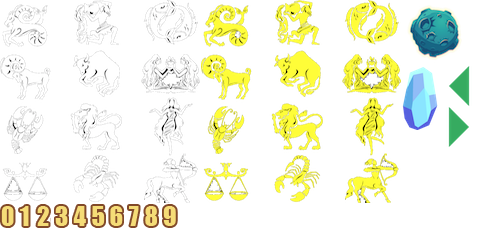
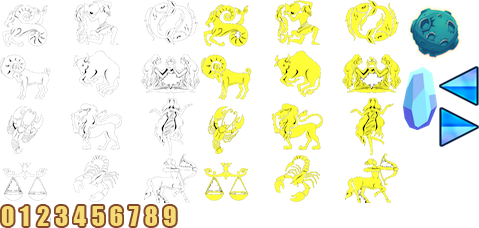
0.4.20 更换操作箭头图片

Changed region(s): [[0.9061, 0.2763, 1.0, 0.4605], [0.9061, 0.4605, 1.0, 0.6447]]

diff --git a/bin/js/ui/layaUI.max.all.js b/bin/js/ui/layaUI.max.all.js
@@ -38,7 +38,7 @@ var ui;
             _super.prototype.createChildren.call(this);
             this.createView(ui.GameViewUI.uiView);
         };
-        GameViewUI.uiView = { "type": "View", "props": { "y": 0, "x": 0, "width": 800, "height": 600 }, "child": [{ "type": "Box", "props": { "y": -2017, "x": 0, "width": 800, "visible": true, "var": "runningView", "height": 2617 }, "child": [{ "type": "Image", "props": { "y": 0, "x": 0, "width": 800, "var": "backgroundView", "skin": "ui/background/BackGround .jpg", "height": 2617 } }, { "type": "Animation", "props": { "y": 2582, "x": 145, "width": 30, "var": "smallBallView", "height": 30 } }, { "type": "Animation", "props": { "y": 2568, "x": 369, "width": 50, "var": "bigBallView", "height": 50 } }] }, { "type": "Box", "props": { "width": 666, "visible": true, "var": "arrowView", "scaleX": 1, "pivotY": 53, "pivotX": 324, "height": 113, "centerY": 193, "centerX": 5 }, "child": [{ "type": "Image", "props": { "x": 574, "width": 100, "visible": true, "skin": "ui/else/right.png", "pivotY": 0, "pivotX": 0, "name": "rightShow", "height": 100, "alpha": 0.3 } }, { "type": "Image", "props": { "width": 100, "visible": true, "skin": "ui/else/left.png", "name": "leftShow", "height": 100, "alpha": 0.3 } }, { "type": "Image", "props": { "y": -180, "x": 480, "width": 240, "visible": true, "skin": "ui/else/right.png", "name": "right", "height": 330, "alpha": 0 } }, { "type": "Image", "props": { "y": -180, "x": -63, "width": 240, "visible": true, "skin": "ui/else/left.png", "name": "left", "height": 330, "alpha": 0 } }] }, { "type": "Box", "props": { "y": 50, "x": 600, "width": 200, "visible": true, "var": "scoreView", "height": 60 }, "child": [{ "type": "Clip", "props": { "y": 7, "x": 126, "width": 30, "skin": "ui/else/clip_number.png", "name": "item3", "height": 40, "clipX": 10 } }, { "type": "Clip", "props": { "y": 7, "x": 82, "width": 30, "skin": "ui/else/clip_number.png", "name": "item2", "height": 40, "clipX": 10 } }, { "type": "Clip", "props": { "y": 7, "x": 37, "width": 30, "skin": "ui/else/clip_number.png", "name": "item1", "index": 0, "height": 40, "clipX": 10 } }, { "type": "Text", "props": { "y": -23, "x": 60, "width": 92, "var": "levelView", "text": "Level 1", "strokeColor": "#16d225", "italic": true, "height": 25, "fontSize": 25, "font": "Impact", "color": "#ff2f08", "bold": false, "alpha": 0.5, "align": "center" } }, { "type": "Image", "props": { "y": 0, "x": -30, "width": 50, "var": "settingButton", "skin": "ui/button/SettingButton.png", "height": 50, "alpha": 0.5 }, "child": [{ "type": "Image", "props": { "y": 140, "x": 0, "width": 50, "visible": false, "var": "pauseButton", "skin": "ui/button/PauseButton.png", "height": 50, "disabled": true } }, { "type": "Image", "props": { "y": 70, "x": 0, "width": 50, "visible": false, "var": "soundButton", "skin": "ui/button/NoSoundButton.png", "height": 50, "disabled": true } }, { "type": "Image", "props": { "y": 210, "x": 0, "width": 50, "visible": false, "var": "endButton", "skin": "ui/button/EndButton.png", "height": 50, "disabled": true } }] }, { "type": "Text", "props": { "y": 48, "x": 35, "strokeColor": "#f4720b", "stroke": 2, "name": "penalty", "fontSize": 50, "font": "ChalkBoard", "color": "#f82e08" } }, { "type": "Text", "props": { "y": 46, "x": 97, "strokeColor": "#08bc83", "stroke": 2, "name": "reward", "fontSize": 50, "font": "ChalkBoard", "color": "#08f824" } }] }, { "type": "Box", "props": { "y": 506, "x": 605, "width": 238, "visible": true, "var": "smallArrowView", "scaleX": 1, "pivotY": 53, "pivotX": 324, "height": 98, "centerY": 202, "centerX": 14 }, "child": [{ "type": "Image", "props": { "y": 0, "x": 181, "width": 70, "visible": true, "skin": "ui/else/right.png", "pivotY": 0, "pivotX": 0, "name": "rightShow", "height": 70, "alpha": 0.3 } }, { "type": "Image", "props": { "y": 0, "x": -20, "width": 70, "visible": true, "skin": "ui/else/left.png", "name": "leftShow", "height": 70, "alpha": 0.3 } }, { "type": "Image", "props": { "y": -35, "x": 135, "width": 180, "visible": true, "skin": "ui/else/right.png", "name": "right", "height": 180, "alpha": 0 } }, { "type": "Image", "props": { "y": -35, "x": -65, "width": 180, "visible": true, "skin": "ui/else/left.png", "name": "left", "height": 180, "alpha": 0 } }] }] };
+        GameViewUI.uiView = { "type": "View", "props": { "y": 0, "x": 0, "width": 800, "height": 600 }, "child": [{ "type": "Box", "props": { "y": -2017, "x": 0, "width": 800, "visible": true, "var": "runningView", "height": 2617 }, "child": [{ "type": "Image", "props": { "y": 0, "x": 0, "width": 800, "var": "backgroundView", "skin": "ui/background/BackGround .jpg", "height": 2617 } }, { "type": "Animation", "props": { "y": 2582, "x": 145, "width": 30, "var": "smallBallView", "height": 30 } }, { "type": "Animation", "props": { "y": 2568, "x": 369, "width": 50, "var": "bigBallView", "height": 50 } }] }, { "type": "Box", "props": { "width": 666, "visible": true, "var": "arrowView", "scaleX": 1, "pivotY": 53, "pivotX": 324, "height": 113, "centerY": 193, "centerX": 5 }, "child": [{ "type": "Image", "props": { "x": 574, "width": 100, "visible": true, "skin": "ui/else/right.png", "pivotY": 0, "pivotX": 0, "name": "rightShow", "height": 100, "alpha": 0.7 } }, { "type": "Image", "props": { "width": 100, "visible": true, "skin": "ui/else/left.png", "name": "leftShow", "height": 100, "alpha": 0.7 } }, { "type": "Image", "props": { "y": -180, "x": 480, "width": 240, "visible": true, "skin": "ui/else/right.png", "name": "right", "height": 330, "alpha": 0 } }, { "type": "Image", "props": { "y": -180, "x": -63, "width": 240, "visible": true, "skin": "ui/else/left.png", "name": "left", "height": 330, "alpha": 0 } }] }, { "type": "Box", "props": { "y": 50, "x": 600, "width": 200, "visible": true, "var": "scoreView", "height": 60 }, "child": [{ "type": "Clip", "props": { "y": 7, "x": 126, "width": 30, "skin": "ui/else/clip_number.png", "name": "item3", "height": 40, "clipX": 10 } }, { "type": "Clip", "props": { "y": 7, "x": 82, "width": 30, "skin": "ui/else/clip_number.png", "name": "item2", "height": 40, "clipX": 10 } }, { "type": "Clip", "props": { "y": 7, "x": 37, "width": 30, "skin": "ui/else/clip_number.png", "name": "item1", "index": 0, "height": 40, "clipX": 10 } }, { "type": "Text", "props": { "y": -23, "x": 60, "width": 92, "var": "levelView", "text": "Level 1", "strokeColor": "#16d225", "italic": true, "height": 25, "fontSize": 25, "font": "Impact", "color": "#ff2f08", "bold": false, "alpha": 0.5, "align": "center" } }, { "type": "Image", "props": { "y": 0, "x": -30, "width": 50, "var": "settingButton", "skin": "ui/button/SettingButton.png", "height": 50, "alpha": 0.5 }, "child": [{ "type": "Image", "props": { "y": 140, "x": 0, "width": 50, "visible": false, "var": "pauseButton", "skin": "ui/button/PauseButton.png", "height": 50, "disabled": true } }, { "type": "Image", "props": { "y": 70, "x": 0, "width": 50, "visible": false, "var": "soundButton", "skin": "ui/button/NoSoundButton.png", "height": 50, "disabled": true } }, { "type": "Image", "props": { "y": 210, "x": 0, "width": 50, "visible": false, "var": "endButton", "skin": "ui/button/EndButton.png", "height": 50, "disabled": true } }] }, { "type": "Text", "props": { "y": 48, "x": 35, "strokeColor": "#f4720b", "stroke": 2, "name": "penalty", "fontSize": 50, "font": "ChalkBoard", "color": "#f82e08" } }, { "type": "Text", "props": { "y": 46, "x": 97, "strokeColor": "#08bc83", "stroke": 2, "name": "reward", "fontSize": 50, "font": "ChalkBoard", "color": "#08f824" } }] }, { "type": "Box", "props": { "y": 506, "x": 605, "width": 238, "visible": true, "var": "smallArrowView", "scaleX": 1, "pivotY": 53, "pivotX": 324, "height": 98, "centerY": 202, "centerX": 14 }, "child": [{ "type": "Image", "props": { "y": 0, "x": 181, "width": 70, "visible": true, "skin": "ui/else/right.png", "pivotY": 0, "pivotX": 0, "name": "rightShow", "height": 70, "alpha": 0.7 } }, { "type": "Image", "props": { "y": 0, "x": -20, "width": 70, "visible": true, "skin": "ui/else/left.png", "name": "leftShow", "height": 70, "alpha": 0.7 } }, { "type": "Image", "props": { "y": -35, "x": 135, "width": 180, "visible": true, "skin": "ui/else/right.png", "name": "right", "height": 180, "alpha": 0 } }, { "type": "Image", "props": { "y": -35, "x": -65, "width": 180, "visible": true, "skin": "ui/else/left.png", "name": "left", "height": 180, "alpha": 0 } }] }] };
         return GameViewUI;
     }(View));
     ui.GameViewUI = GameViewUI;

diff --git a/src/ui/layaUI.max.all.ts b/src/ui/layaUI.max.all.ts
@@ -36,7 +36,7 @@ module ui {
 		public endButton:Laya.Image;
 		public smallArrowView:Laya.Box;
 
-        public static  uiView:any ={"type":"View","props":{"y":0,"x":0,"width":800,"height":600},"child":[{"type":"Box","props":{"y":-2017,"x":0,"width":800,"visible":true,"var":"runningView","height":2617},"child":[{"type":"Image","props":{"y":0,"x":0,"width":800,"var":"backgroundView","skin":"ui/background/BackGround .jpg","height":2617}},{"type":"Animation","props":{"y":2582,"x":145,"width":30,"var":"smallBallView","height":30}},{"type":"Animation","props":{"y":2568,"x":369,"width":50,"var":"bigBallView","height":50}}]},{"type":"Box","props":{"width":666,"visible":true,"var":"arrowView","scaleX":1,"pivotY":53,"pivotX":324,"height":113,"centerY":193,"centerX":5},"child":[{"type":"Image","props":{"x":574,"width":100,"visible":true,"skin":"ui/else/right.png","pivotY":0,"pivotX":0,"name":"rightShow","height":100,"alpha":0.3}},{"type":"Image","props":{"width":100,"visible":true,"skin":"ui/else/left.png","name":"leftShow","height":100,"alpha":0.3}},{"type":"Image","props":{"y":-180,"x":480,"width":240,"visible":true,"skin":"ui/else/right.png","name":"right","height":330,"alpha":0}},{"type":"Image","props":{"y":-180,"x":-63,"width":240,"visible":true,"skin":"ui/else/left.png","name":"left","height":330,"alpha":0}}]},{"type":"Box","props":{"y":50,"x":600,"width":200,"visible":true,"var":"scoreView","height":60},"child":[{"type":"Clip","props":{"y":7,"x":126,"width":30,"skin":"ui/else/clip_number.png","name":"item3","height":40,"clipX":10}},{"type":"Clip","props":{"y":7,"x":82,"width":30,"skin":"ui/else/clip_number.png","name":"item2","height":40,"clipX":10}},{"type":"Clip","props":{"y":7,"x":37,"width":30,"skin":"ui/else/clip_number.png","name":"item1","index":0,"height":40,"clipX":10}},{"type":"Text","props":{"y":-23,"x":60,"width":92,"var":"levelView","text":"Level 1","strokeColor":"#16d225","italic":true,"height":25,"fontSize":25,"font":"Impact","color":"#ff2f08","bold":false,"alpha":0.5,"align":"center"}},{"type":"Image","props":{"y":0,"x":-30,"width":50,"var":"settingButton","skin":"ui/button/SettingButton.png","height":50,"alpha":0.5},"child":[{"type":"Image","props":{"y":140,"x":0,"width":50,"visible":false,"var":"pauseButton","skin":"ui/button/PauseButton.png","height":50,"disabled":true}},{"type":"Image","props":{"y":70,"x":0,"width":50,"visible":false,"var":"soundButton","skin":"ui/button/NoSoundButton.png","height":50,"disabled":true}},{"type":"Image","props":{"y":210,"x":0,"width":50,"visible":false,"var":"endButton","skin":"ui/button/EndButton.png","height":50,"disabled":true}}]},{"type":"Text","props":{"y":48,"x":35,"strokeColor":"#f4720b","stroke":2,"name":"penalty","fontSize":50,"font":"ChalkBoard","color":"#f82e08"}},{"type":"Text","props":{"y":46,"x":97,"strokeColor":"#08bc83","stroke":2,"name":"reward","fontSize":50,"font":"ChalkBoard","color":"#08f824"}}]},{"type":"Box","props":{"y":506,"x":605,"width":238,"visible":true,"var":"smallArrowView","scaleX":1,"pivotY":53,"pivotX":324,"height":98,"centerY":202,"centerX":14},"child":[{"type":"Image","props":{"y":0,"x":181,"width":70,"visible":true,"skin":"ui/else/right.png","pivotY":0,"pivotX":0,"name":"rightShow","height":70,"alpha":0.3}},{"type":"Image","props":{"y":0,"x":-20,"width":70,"visible":true,"skin":"ui/else/left.png","name":"leftShow","height":70,"alpha":0.3}},{"type":"Image","props":{"y":-35,"x":135,"width":180,"visible":true,"skin":"ui/else/right.png","name":"right","height":180,"alpha":0}},{"type":"Image","props":{"y":-35,"x":-65,"width":180,"visible":true,"skin":"ui/else/left.png","name":"left","height":180,"alpha":0}}]}]};
+        public static  uiView:any ={"type":"View","props":{"y":0,"x":0,"width":800,"height":600},"child":[{"type":"Box","props":{"y":-2017,"x":0,"width":800,"visible":true,"var":"runningView","height":2617},"child":[{"type":"Image","props":{"y":0,"x":0,"width":800,"var":"backgroundView","skin":"ui/background/BackGround .jpg","height":2617}},{"type":"Animation","props":{"y":2582,"x":145,"width":30,"var":"smallBallView","height":30}},{"type":"Animation","props":{"y":2568,"x":369,"width":50,"var":"bigBallView","height":50}}]},{"type":"Box","props":{"width":666,"visible":true,"var":"arrowView","scaleX":1,"pivotY":53,"pivotX":324,"height":113,"centerY":193,"centerX":5},"child":[{"type":"Image","props":{"x":574,"width":100,"visible":true,"skin":"ui/else/right.png","pivotY":0,"pivotX":0,"name":"rightShow","height":100,"alpha":0.7}},{"type":"Image","props":{"width":100,"visible":true,"skin":"ui/else/left.png","name":"leftShow","height":100,"alpha":0.7}},{"type":"Image","props":{"y":-180,"x":480,"width":240,"visible":true,"skin":"ui/else/right.png","name":"right","height":330,"alpha":0}},{"type":"Image","props":{"y":-180,"x":-63,"width":240,"visible":true,"skin":"ui/else/left.png","name":"left","height":330,"alpha":0}}]},{"type":"Box","props":{"y":50,"x":600,"width":200,"visible":true,"var":"scoreView","height":60},"child":[{"type":"Clip","props":{"y":7,"x":126,"width":30,"skin":"ui/else/clip_number.png","name":"item3","height":40,"clipX":10}},{"type":"Clip","props":{"y":7,"x":82,"width":30,"skin":"ui/else/clip_number.png","name":"item2","height":40,"clipX":10}},{"type":"Clip","props":{"y":7,"x":37,"width":30,"skin":"ui/else/clip_number.png","name":"item1","index":0,"height":40,"clipX":10}},{"type":"Text","props":{"y":-23,"x":60,"width":92,"var":"levelView","text":"Level 1","strokeColor":"#16d225","italic":true,"height":25,"fontSize":25,"font":"Impact","color":"#ff2f08","bold":false,"alpha":0.5,"align":"center"}},{"type":"Image","props":{"y":0,"x":-30,"width":50,"var":"settingButton","skin":"ui/button/SettingButton.png","height":50,"alpha":0.5},"child":[{"type":"Image","props":{"y":140,"x":0,"width":50,"visible":false,"var":"pauseButton","skin":"ui/button/PauseButton.png","height":50,"disabled":true}},{"type":"Image","props":{"y":70,"x":0,"width":50,"visible":false,"var":"soundButton","skin":"ui/button/NoSoundButton.png","height":50,"disabled":true}},{"type":"Image","props":{"y":210,"x":0,"width":50,"visible":false,"var":"endButton","skin":"ui/button/EndButton.png","height":50,"disabled":true}}]},{"type":"Text","props":{"y":48,"x":35,"strokeColor":"#f4720b","stroke":2,"name":"penalty","fontSize":50,"font":"ChalkBoard","color":"#f82e08"}},{"type":"Text","props":{"y":46,"x":97,"strokeColor":"#08bc83","stroke":2,"name":"reward","fontSize":50,"font":"ChalkBoard","color":"#08f824"}}]},{"type":"Box","props":{"y":506,"x":605,"width":238,"visible":true,"var":"smallArrowView","scaleX":1,"pivotY":53,"pivotX":324,"height":98,"centerY":202,"centerX":14},"child":[{"type":"Image","props":{"y":0,"x":181,"width":70,"visible":true,"skin":"ui/else/right.png","pivotY":0,"pivotX":0,"name":"rightShow","height":70,"alpha":0.7}},{"type":"Image","props":{"y":0,"x":-20,"width":70,"visible":true,"skin":"ui/else/left.png","name":"leftShow","height":70,"alpha":0.7}},{"type":"Image","props":{"y":-35,"x":135,"width":180,"visible":true,"skin":"ui/else/right.png","name":"right","height":180,"alpha":0}},{"type":"Image","props":{"y":-35,"x":-65,"width":180,"visible":true,"skin":"ui/else/left.png","name":"left","height":180,"alpha":0}}]}]};
         constructor(){ super()}
         createChildren():void {
         			View.regComponent("Text",laya.display.Text);

diff --git a/bin/js/GameMain.js b/bin/js/GameMain.js
@@ -117,7 +117,6 @@ var GameMain = /** @class */ (function () {
         GameMain.viewStack.selectedIndex = 2;
         GameMain.endView.init();
         GameMain.endView.showEnd();
-        console.log("ok");
     };
     //到开始界面
     GameMain.prototype.toStartView = function () {
